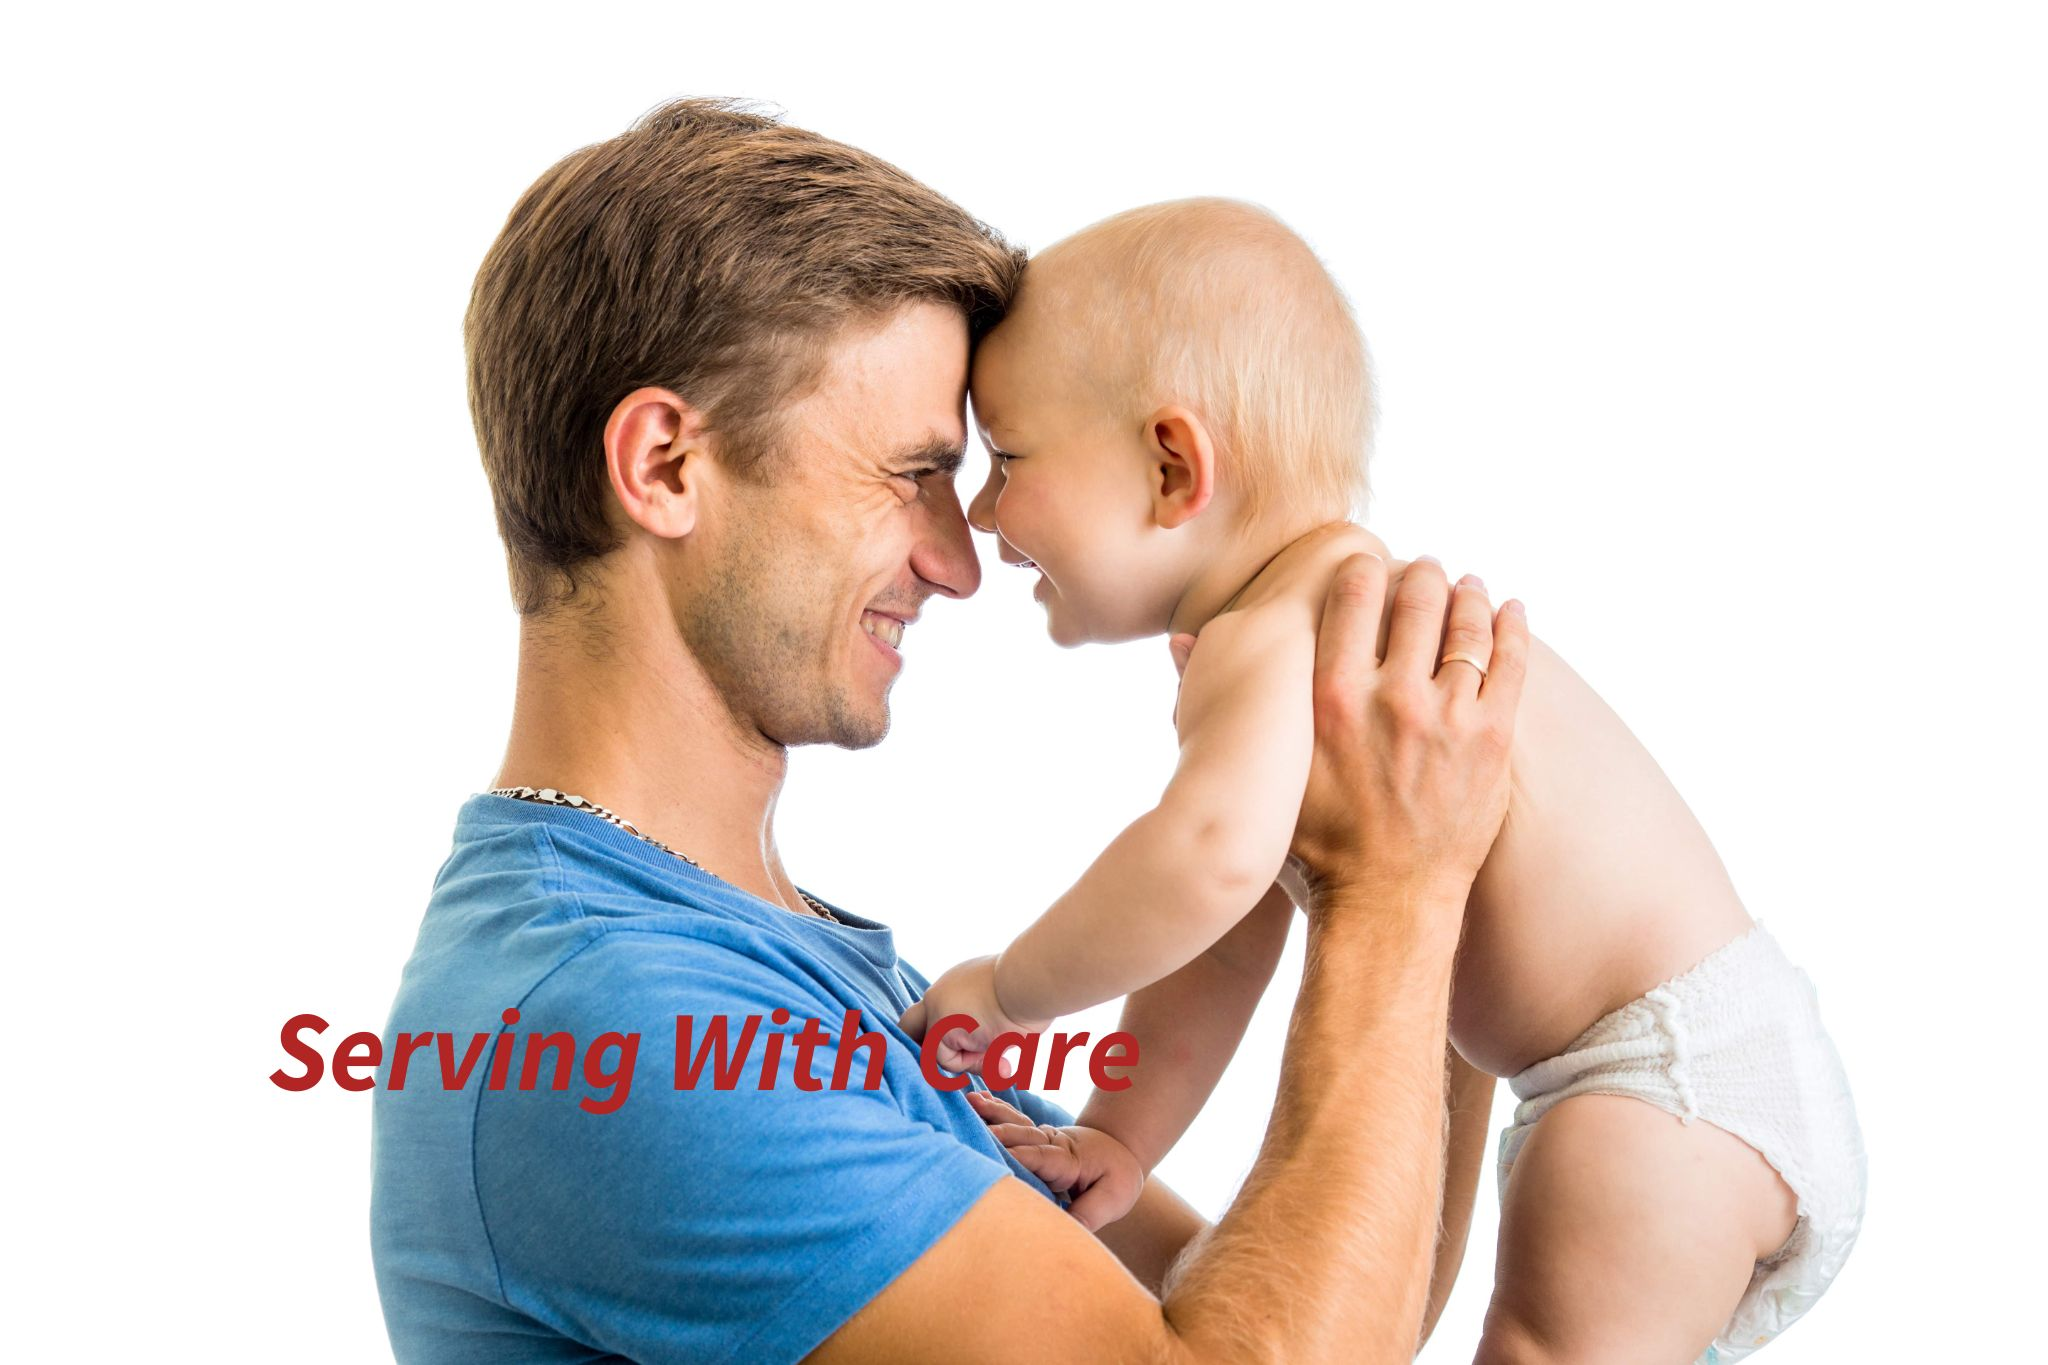
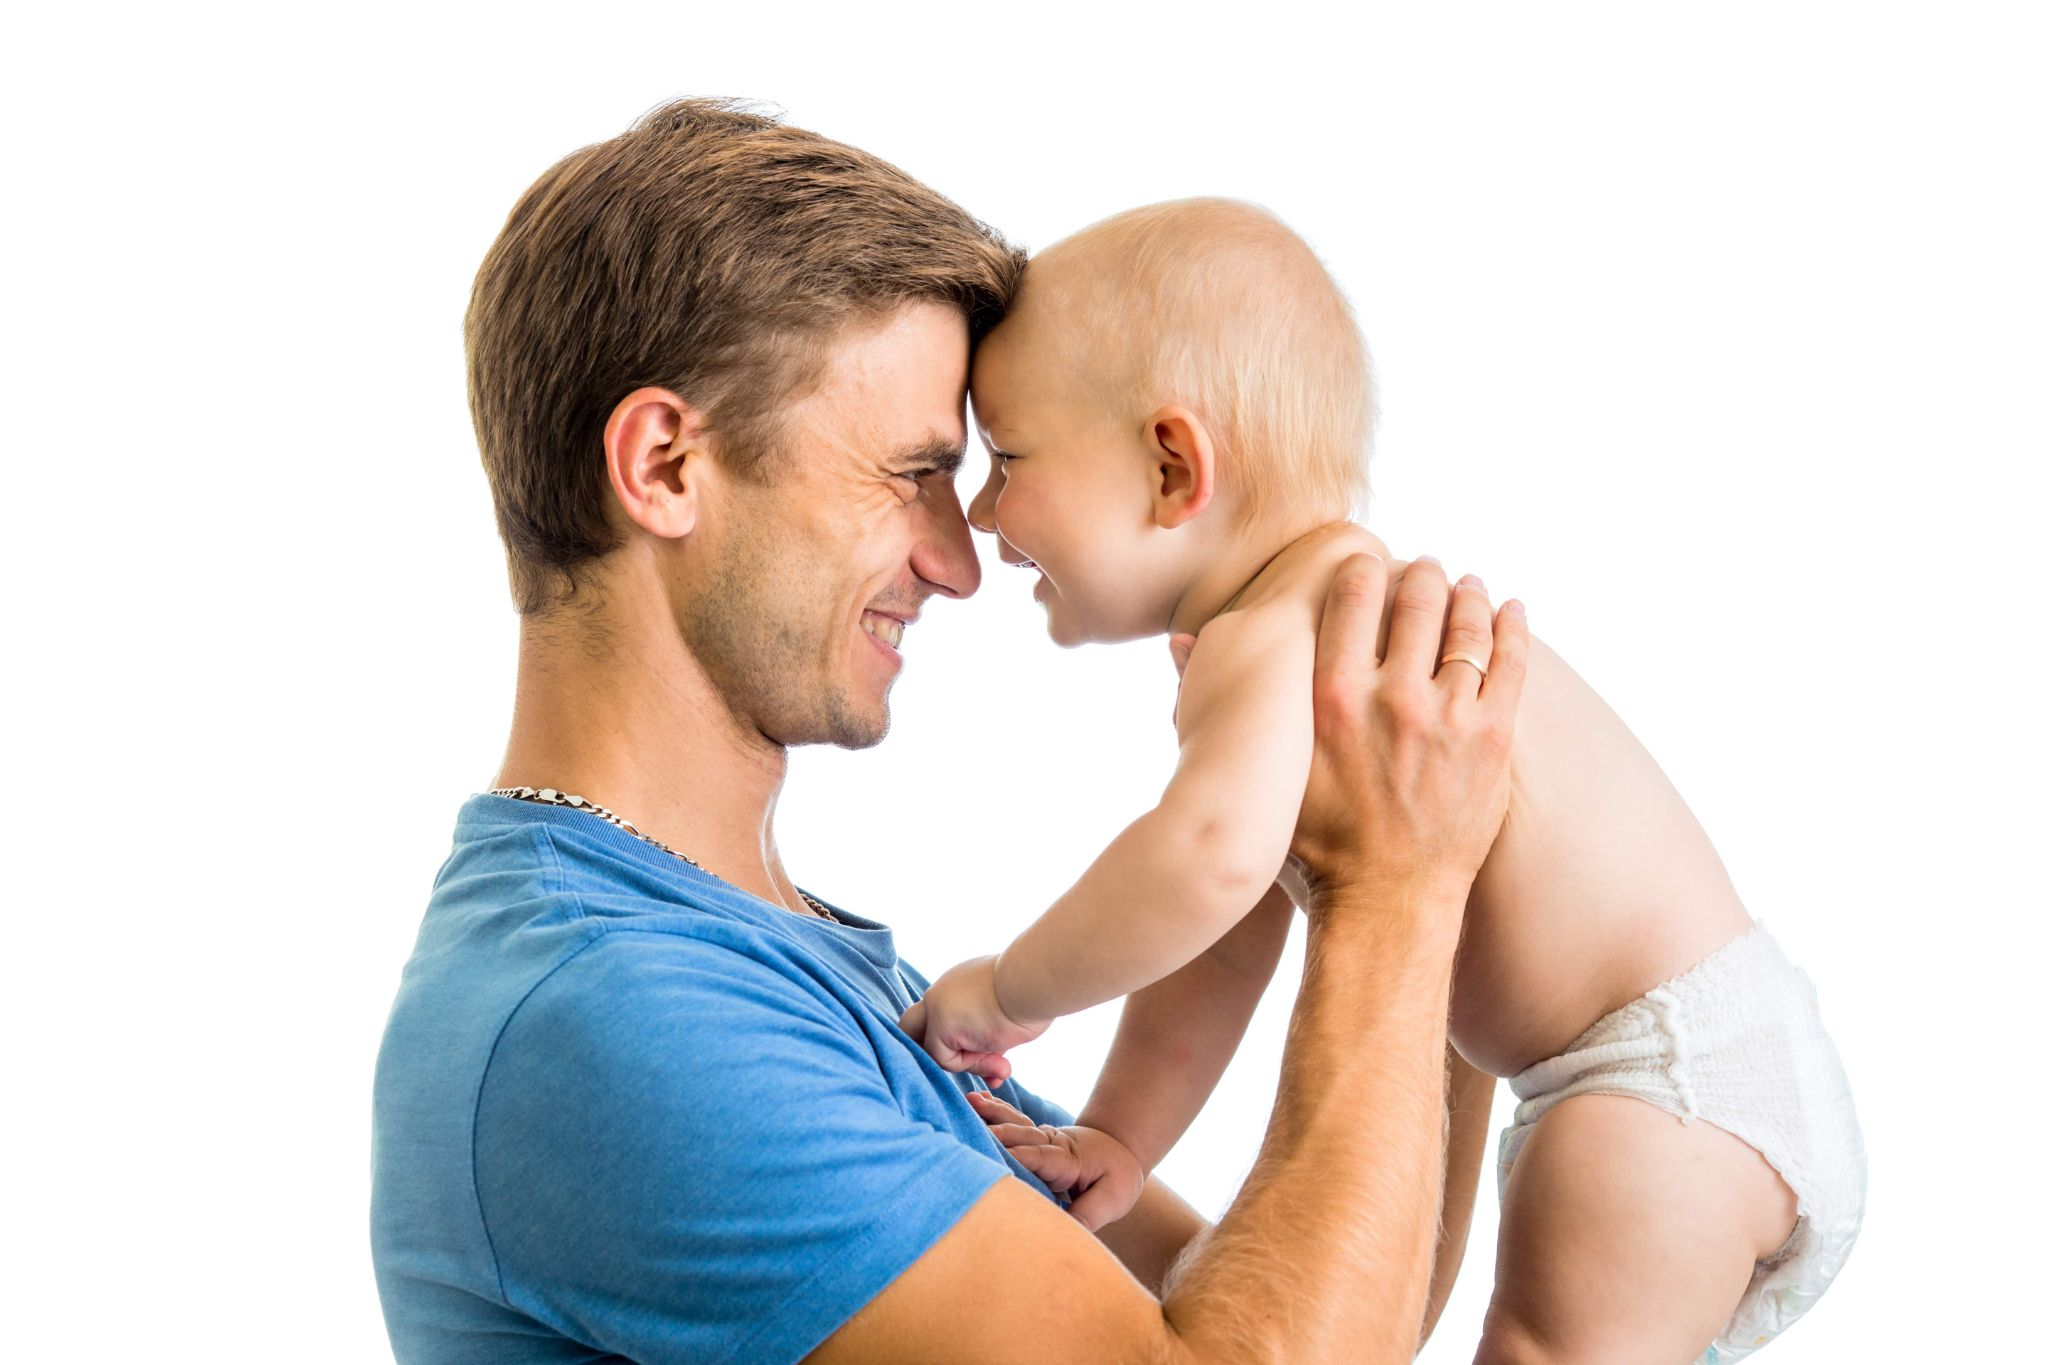
fix

Changed region(s): [[0.125, 0.7385, 0.5625, 0.8308]]

diff --git a/src/components/hompage/ServicesSection.tsx b/src/components/hompage/ServicesSection.tsx
@@ -10,7 +10,7 @@ const ServicesSection = () => {
       className="bg-light flex items-center justify-center flex-col py-28 gap-16"
     >
       <SectionHeader
-        title="Our Health Offerings"
+        title="Serving With Care"
         subtitle="Explore Our Diverse Range Of Medicines, Vitamins, And Medical Supplies "
       />
 
